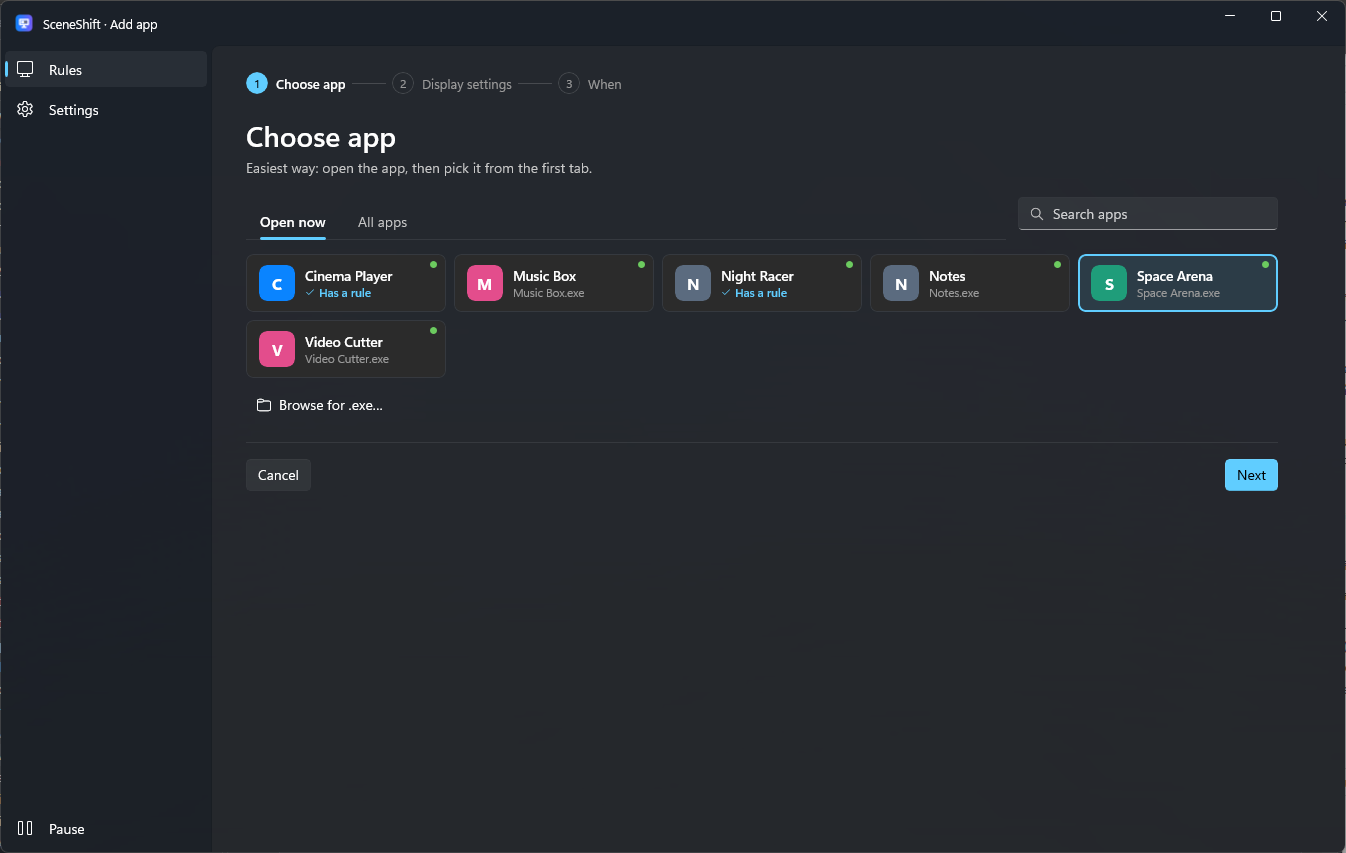
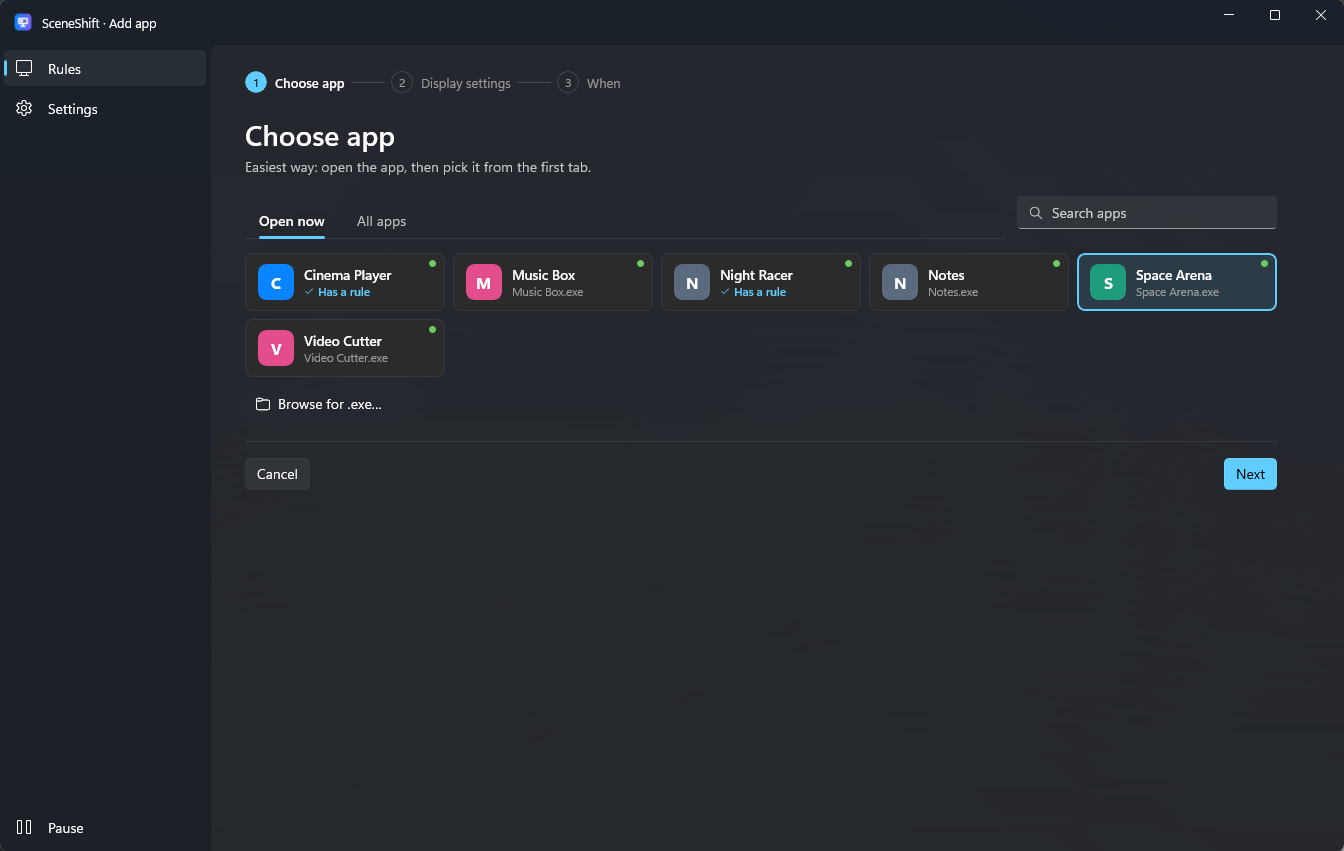
feat: loop the walkthrough without controls
The walkthrough plays on a loop while it is on screen, with only the step bubble and click marks over it. Visitors who reduce motion get the browser's video controls instead. Screenshots lose the light 1 px window border, and a mouse click on a question no longer leaves a focus ring.

diff --git a/site.js b/site.js
@@ -28,6 +28,8 @@
         summary.addEventListener('click', event => {
           event.preventDefault();
           toggleAnswer(details, answer);
+          // A mouse click leaves no focus ring; Enter and Space from the keyboard keep it.
+          if (event.detail > 0) summary.blur();
         });
         return details;
       }));
@@ -52,47 +54,26 @@
     animation.onfinish = () => { if (!opening) details.open = false; };
   }
 
-  // The walkthrough is a real recording. Its steps say when each one starts and where its
-  // click lands, so the caption, the step bar and a ring on each click follow the video.
+  // The walkthrough is a real recording that loops. Its steps say when each one starts and
+  // where its click lands, so the step bubble and a ring on each click follow the video.
   function startTour(texts) {
     const root = document.getElementById('tour');
     if (!root) return;
     const video = root.querySelector('video');
     const mark = root.querySelector('.click-mark');
     const bubble = root.querySelector('.bubble');
-    const caption = root.querySelector('.tour-caption');
-    const count = root.querySelector('.tour-count');
-    const fillBar = root.querySelector('.fill');
-    const dots = root.querySelector('.dots');
-    const playButton = root.querySelector('[data-tour=play]');
-    const playLabel = root.querySelector('.play-label');
     let steps = [];
-    let duration = 1;
     let current = -1;
     let lastTime = 0;
-    let pausedByVisitor = reducedMotion;
-
-    function stepAt(time) {
-      let index = 0;
-      steps.forEach((step, position) => { if (step.start <= time + 0.05) index = position; });
-      return index;
-    }
 
     function showStep(index) {
       if (index === current) return;
       current = index;
-      const text = texts[steps[index].caption] || '';
-      caption.textContent = text;
       bubble.querySelector('.bubble-number').textContent = index + 1;
-      bubble.querySelector('.bubble-text').textContent = text;
+      bubble.querySelector('.bubble-text').textContent = texts[steps[index].caption] || '';
       bubble.classList.remove('show');
       void bubble.offsetWidth;
       bubble.classList.add('show');
-      count.textContent = `Step ${index + 1} of ${steps.length}`;
-      dots.querySelectorAll('button').forEach((dot, position) => {
-        dot.classList.toggle('done', position < index);
-        dot.classList.toggle('current', position === index);
-      });
     }
 
     function showClick(click) {
@@ -105,9 +86,10 @@
 
     function update() {
       const time = video.currentTime;
-      fillBar.style.transform = `scaleX(${Math.min(1, time / duration)})`;
-      showStep(stepAt(time));
-      // A ring on every click the video passed since the last update, but not after a jump.
+      let index = 0;
+      steps.forEach((step, position) => { if (step.start <= time + 0.05) index = position; });
+      showStep(index);
+      // A ring on each click passed since the last frame; none when the video starts over.
       if (time >= lastTime && time - lastTime < 0.5) {
         steps.forEach(step => {
           if (step.click && step.click.time > lastTime && step.click.time <= time) {
@@ -116,78 +98,30 @@
         });
       }
       lastTime = time;
+      if (!video.paused) requestAnimationFrame(update);
     }
 
-    function tick() {
-      update();
-      if (!video.paused) requestAnimationFrame(tick);
-    }
-
-    function setPlaying(playing) {
-      root.classList.toggle('paused', !playing);
-      playLabel.textContent = texts[playing ? 'tour.pause' : 'tour.play'] || '';
-      playButton.setAttribute('aria-pressed', String(!playing));
-    }
-
-    function seek(index) {
-      const step = steps[(index + steps.length) % steps.length];
-      video.currentTime = step.start;
-      lastTime = step.start;
-      current = -1;
-      update();
-    }
-
-    video.addEventListener('play', () => { setPlaying(true); requestAnimationFrame(tick); });
-    video.addEventListener('pause', () => setPlaying(false));
-    video.addEventListener('seeked', update);
-
-    playButton.addEventListener('click', () => {
-      if (video.paused) {
-        pausedByVisitor = false;
-        video.play();
-      } else {
-        pausedByVisitor = true;
-        video.pause();
-      }
-    });
-    root.querySelector('[data-tour=next]').addEventListener('click', () => seek(current + 1));
-    root.querySelector('[data-tour=previous]').addEventListener('click', () => seek(current - 1));
-    root.querySelector('[data-tour=restart]').addEventListener('click', () => {
-      seek(0);
-      pausedByVisitor = false;
-      video.play();
-    });
+    video.addEventListener('play', () => requestAnimationFrame(update));
 
     fetch('images/walkthrough/walkthrough.json', { cache: 'no-cache' })
       .then(response => response.json())
       .then(walkthrough => {
         steps = walkthrough.steps;
-        duration = walkthrough.duration;
-        dots.replaceChildren(...steps.map((step, index) => {
-          const dot = makeDot(index);
-          dot.style.left = `${(step.start / duration) * 100}%`;
-          dot.addEventListener('click', () => seek(index));
-          return dot;
-        }));
-        setPlaying(false);
         update();
-        // Play while the walkthrough is on screen, unless the visitor paused it.
+        // Visitors who turned motion down get the player's own controls instead.
+        if (reducedMotion) {
+          video.controls = true;
+          return;
+        }
+        // Play only while the walkthrough is on screen.
         new IntersectionObserver(entries => {
           entries.forEach(entry => {
-            if (entry.isIntersecting && !pausedByVisitor) video.play().catch(() => {});
-            if (!entry.isIntersecting && !video.paused) video.pause();
+            if (entry.isIntersecting) video.play().catch(() => {});
+            else video.pause();
           });
-        }, { threshold: 0.4 }).observe(video);
+        }, { threshold: 0.3 }).observe(video);
       })
       .catch(() => { root.hidden = true; });
-
-    function makeDot(index) {
-      const dot = document.createElement('button');
-      dot.type = 'button';
-      dot.className = 'dot';
-      dot.setAttribute('aria-label', `Step ${index + 1}`);
-      return dot;
-    }
   }
 
   // no-cache asks the server whether the file changed, so new text shows at once.

diff --git a/site.css b/site.css
@@ -185,116 +185,16 @@ h3 { font-size: 18px; margin: 0 0 8px; }
   background: var(--accent);
 }
 
-.tour-caption {
-  min-height: 1.65em;
-  margin: 16px 0 0;
-  padding: 12px 16px;
-  border-radius: 10px;
-  border: 1px solid var(--stroke);
-  background: var(--card);
-}
-
-.tour-bar { display: flex; flex-wrap: wrap; gap: 10px; margin-top: 16px; }
-
-.control {
-  display: inline-flex;
-  align-items: center;
-  gap: 8px;
-  height: 44px;
-  padding: 0 18px;
-  font: inherit;
-  font-weight: 600;
-  color: var(--text);
-  background: var(--card);
-  border: 1px solid var(--stroke);
-  border-radius: 999px;
-  cursor: pointer;
-  transition: background 0.2s, border-color 0.2s, transform 0.15s var(--ease),
-    box-shadow 0.2s;
-}
-
-.control svg {
-  width: 18px;
-  height: 18px;
-  fill: none;
-  stroke: currentColor;
-  stroke-width: 2.2;
-  stroke-linecap: round;
-  stroke-linejoin: round;
-  transition: transform 0.25s var(--ease);
-}
-
-.control:hover { background: var(--card-hover); border-color: var(--stroke-hover); transform: translateY(-1px); }
-.control:active { transform: translateY(0) scale(0.96); }
-.control[data-tour=previous]:hover svg { transform: translateX(-3px); }
-.control[data-tour=next]:hover svg { transform: translateX(3px); }
-.control[data-tour=restart]:hover svg { transform: rotate(-200deg); }
-
-.control--main {
-  min-width: 128px;
-  color: var(--on-accent);
-  background: var(--accent);
-  border-color: transparent;
-}
-
-.control--main:hover {
-  background: var(--accent-hover);
-  border-color: transparent;
-  box-shadow: 0 6px 20px rgba(96, 205, 255, 0.35);
-}
-
-/* Pause and play icons sit on top of each other and swap with a turn and a fade. */
-.icon-swap { position: relative; width: 18px; height: 18px; }
-.icon-swap svg { position: absolute; inset: 0; transition: opacity 0.2s, transform 0.3s var(--ease); }
-.icon-play { fill: currentColor !important; stroke-width: 1.5 !important; opacity: 0; transform: rotate(-90deg) scale(0.6); }
-.tour.paused .icon-pause { opacity: 0; transform: rotate(90deg) scale(0.6); }
-.tour.paused .icon-play { opacity: 1; transform: none; }
-
-.progress { position: relative; display: flex; align-items: center; gap: 16px; margin-top: 18px; }
-.track { position: relative; flex: 1; height: 4px; border-radius: 2px; background: var(--stroke); }
-
-.fill {
-  position: absolute;
-  inset: 0;
-  border-radius: 2px;
-  background: var(--accent);
-  transform: scaleX(0);
-  transform-origin: left;
-}
-
-.dots { position: absolute; left: 0; right: calc(16px + var(--count-width, 96px)); top: 50%; }
-
-.dot {
-  position: absolute;
-  top: 0;
-  width: 14px;
-  height: 14px;
-  margin: -7px 0 0 -7px;
-  padding: 0;
-  border-radius: 50%;
-  border: 2px solid var(--text-muted);
-  background: var(--page);
-  cursor: pointer;
-  transition: transform 0.2s var(--ease), background 0.2s, border-color 0.2s;
-}
-
-.dot:hover { transform: scale(1.35); border-color: var(--text); }
-.dot.done { border-color: var(--accent); background: var(--accent); }
-.dot.current { border-color: var(--accent); background: var(--text); transform: scale(1.3); }
-
-.tour-count {
-  flex: none;
-  width: var(--count-width, 96px);
-  text-align: right;
-  color: var(--text-muted);
-  font-variant-numeric: tabular-nums;
-}
-
 @media (max-width: 560px) {
-  .bubble { display: none; }
-  .control { padding: 0 14px; }
-  .control span:not(.icon-swap) { display: none; }
-  .control--main { min-width: 0; }
+  .bubble {
+    bottom: 4%;
+    gap: 8px;
+    max-width: 92%;
+    padding: 6px 12px 6px 6px;
+    font-size: 13px;
+  }
+
+  .bubble-number { width: 22px; height: 22px; }
 }
 
 .steps { display: grid; grid-template-columns: repeat(auto-fit, minmax(240px, 1fr)); gap: 16px; }

diff --git a/index.html b/index.html
@@ -6,7 +6,7 @@
   <title>SceneShift</title>
   <meta name="description" content="SceneShift turns HDR on while your movie player or game is open, and puts the display back when it closes.">
   <link rel="icon" href="images/icon.png">
-  <link rel="stylesheet" href="site.css?v=3">
+  <link rel="stylesheet" href="site.css?v=4">
 </head>
 <body>
   <header class="top">
@@ -26,41 +26,14 @@
     </section>
 
     <!-- A screen recording of the app in demo mode. images/walkthrough/walkthrough.json says
-         when each step starts and where each click lands, for the captions and click marks. -->
+         when each step starts and where each click lands, for the step bubble and click marks. -->
     <section id="tour" class="tour">
       <h2 data-i18n="tour.title">Adding an app, step by step</h2>
       <div class="stage">
-        <video class="video" src="images/walkthrough/walkthrough.mp4?v=3"
-               poster="images/walkthrough/poster.jpg?v=3" muted playsinline loop preload="auto"></video>
+        <video class="video" src="images/walkthrough/walkthrough.mp4?v=4"
+               poster="images/walkthrough/poster.jpg?v=4" muted playsinline loop preload="auto"></video>
         <span class="click-mark" aria-hidden="true"></span>
-        <p class="bubble" aria-hidden="true"><span class="bubble-number"></span><span class="bubble-text"></span></p>
-      </div>
-      <p class="tour-caption" aria-live="polite"></p>
-      <div class="tour-bar">
-        <button type="button" class="control" data-tour="previous">
-          <svg viewBox="0 0 24 24" aria-hidden="true"><path d="M15 5 8 12l7 7"/></svg>
-          <span data-i18n="tour.previous">Back</span>
-        </button>
-        <button type="button" class="control control--main" data-tour="play">
-          <span class="icon-swap" aria-hidden="true">
-            <svg class="icon-pause" viewBox="0 0 24 24"><path d="M8 5v14M16 5v14"/></svg>
-            <svg class="icon-play" viewBox="0 0 24 24"><path d="M7 4.5v15L19.5 12z"/></svg>
-          </span>
-          <span class="play-label" data-i18n="tour.pause">Pause</span>
-        </button>
-        <button type="button" class="control" data-tour="next">
-          <span data-i18n="tour.nextStep">Next</span>
-          <svg viewBox="0 0 24 24" aria-hidden="true"><path d="m9 5 7 7-7 7"/></svg>
-        </button>
-        <button type="button" class="control" data-tour="restart">
-          <svg viewBox="0 0 24 24" aria-hidden="true"><path d="M4 12a8 8 0 1 0 2.4-5.7M4 4v4.5h4.5"/></svg>
-          <span data-i18n="tour.restart">Start over</span>
-        </button>
-      </div>
-      <div class="progress">
-        <div class="track"><span class="fill"></span></div>
-        <div class="dots"></div>
-        <span class="tour-count"></span>
+        <p class="bubble" aria-live="polite"><span class="bubble-number"></span><span class="bubble-text"></span></p>
       </div>
     </section>
 
@@ -113,6 +86,6 @@
   </main>
 
   <footer><p data-i18n="footer.text">SceneShift is made by PHUICMT.</p></footer>
-  <script src="site.js?v=3"></script>
+  <script src="site.js?v=4"></script>
 </body>
 </html>

diff --git a/privacy.html b/privacy.html
@@ -5,7 +5,7 @@
   <meta name="viewport" content="width=device-width, initial-scale=1">
   <title>SceneShift privacy policy</title>
   <link rel="icon" href="images/icon.png">
-  <link rel="stylesheet" href="site.css?v=3">
+  <link rel="stylesheet" href="site.css?v=4">
 </head>
 <body>
   <header class="top">
@@ -13,7 +13,8 @@
     <nav>
       <a href="./#guide" data-i18n="nav.guide">Guide</a>
       <a href="./#help" data-i18n="nav.help">Help</a>
-      <a href="./#feedback" data-i18n="nav.feedback">Feedback</a>    </nav>
+      <a href="./#feedback" data-i18n="nav.feedback">Feedback</a>
+    </nav>
   </header>
 
   <main class="document">
@@ -44,6 +45,6 @@
   </main>
 
   <footer><p data-i18n="footer.text">SceneShift is made by PHUICMT.</p></footer>
-  <script src="site.js?v=3"></script>
+  <script src="site.js?v=4"></script>
 </body>
 </html>
